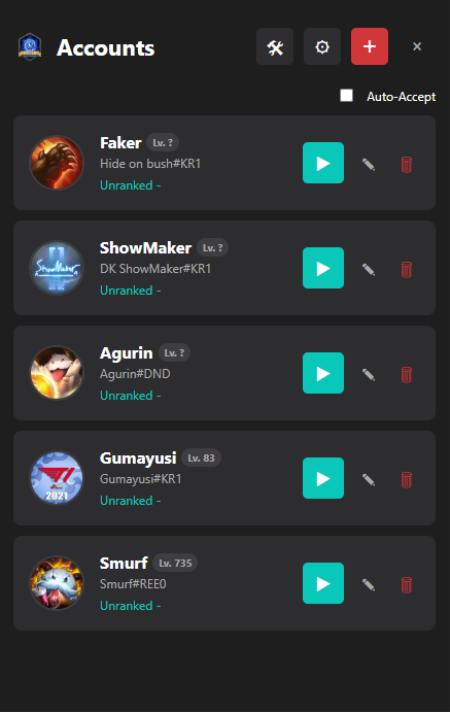
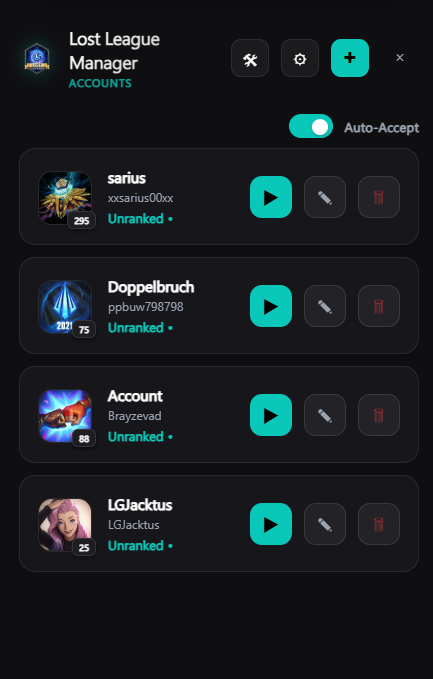
added new design changes

diff --git a/src/renderer/css/style.css b/src/renderer/css/style.css
@@ -930,6 +930,80 @@ input:checked+.slider::before {
     line-height: 1.6;
 }
 
+/* Launch Overlay */
+.launch-overlay {
+    display: none;
+    position: absolute;
+    top: 0;
+    left: 0;
+    width: 100%;
+    height: 100%;
+    background: rgba(15, 15, 18, 0.85);
+    backdrop-filter: blur(15px);
+    justify-content: center;
+    align-items: center;
+    z-index: 3000;
+}
+
+.launch-overlay.active {
+    display: flex;
+}
+
+.launch-content {
+    text-align: center;
+    color: #FFF;
+}
+
+.launch-spinner {
+    width: 50px;
+    height: 50px;
+    border: 3px solid rgba(10, 200, 185, 0.4);
+    border-top-color: var(--primary);
+    border-radius: 50%;
+    animation: spin 1s linear infinite;
+    margin: 0 auto 20px;
+}
+
+.launch-status {
+    font-size: 18px;
+    font-weight: 600;
+    margin-bottom: 20px;
+}
+
+.launch-progress-track {
+    width: 260px;
+    height: 4px;
+    background: rgba(255, 255, 255, 0.05);
+    border-radius: 2px;
+    overflow: hidden;
+    margin: 0 auto 24px;
+}
+
+.launch-progress-bar {
+    width: 0%;
+    height: 100%;
+    background: var(--primary);
+    transition: width 0.3s;
+    box-shadow: 0 0 10px var(--primary);
+}
+
+.cancel-launch-btn {
+    background: rgba(255, 255, 255, 0.05);
+    color: var(--text-dim);
+    border: 1px solid rgba(255, 255, 255, 0.1);
+    padding: 8px 20px;
+    border-radius: 8px;
+    cursor: pointer;
+    font-size: 13px;
+    transition: all 0.2s;
+}
+
+.cancel-launch-btn:hover {
+    background: rgba(209, 54, 57, 0.1);
+    color: var(--danger);
+    border-color: var(--danger);
+}
+
 .confirm-content .modal-actions {
     justify-content: center;
     gap: 16px;
